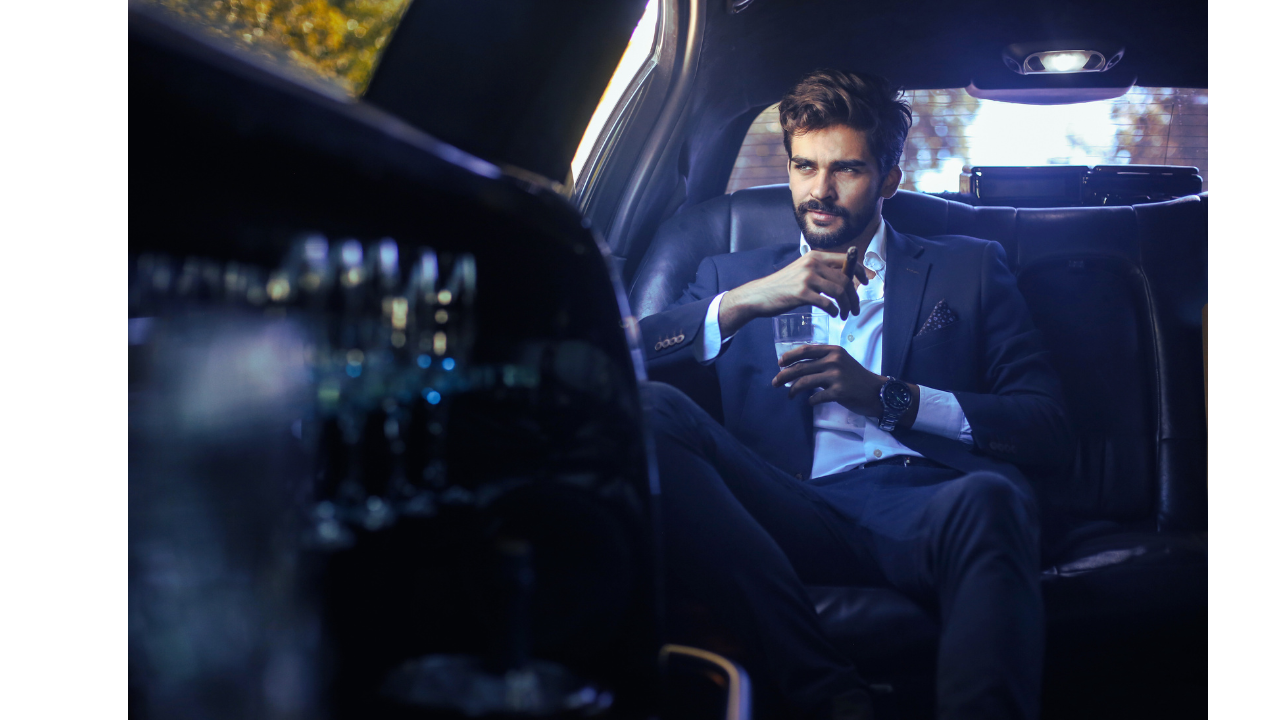
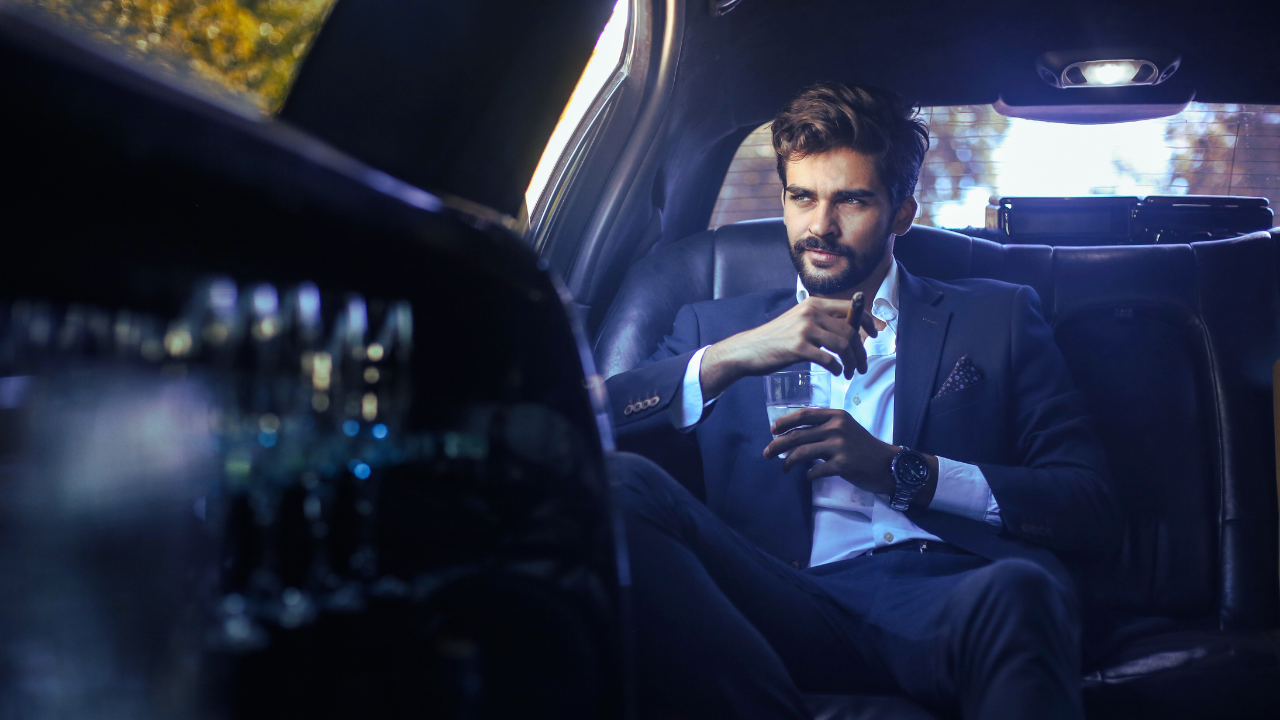
html content and css header and banne sectionsr

diff --git a/index.html b/index.html
@@ -4,7 +4,7 @@
     <meta charset="UTF-8">
     <meta name="viewport" content="width=device-width, initial-scale=1.0">
     <title>FinDataMan</title>
-    <link rel="stylesheet" href="./resources/reset.css">;
+    <link rel="stylesheet" href="./resources/reset.css">
     <link rel="stylesheet" href="./resources/style.css">
     <link rel="preconnect" href="https://fonts.googleapis.com">
 <link rel="preconnect" href="https://fonts.gstatic.com" crossorigin>
@@ -14,44 +14,54 @@
 <body>
     <header>
         <nav>
-            <img src="./resources/images/gray logo.png" alt="FinDataMan logo">
-            <ul class="navigation-items">
-                <li id="li-why-me">
-                    <a ref="#">Why me</a>
-                </li>
-                <li id="li-experience">
-                    <a ref="#">Experience</a>
-                </li>
-                <li id="li-skills">
-                    <a ref="#">Skills</a>
-                </li>
-                <li id="li-education">
-                    <a ref="#">Education</a>
-                </li>
-                <li id ="li-interests">
-                    <a ref="#">Interests</a>
-                </li>
-                <li id ="li-contact">
-                    <a ref="#">Contact</a>
-                </li>
-            </ul>
-        </nav>
-        <h1>This is how I make feel business people</h1>
-        <div id="empowered">
-            <h2>Empowered</h2>
-        </div>
-        <div id="confident">
-            <h2>Confident</h2>
-        </div>
-        <div id="prepared">
-            <h2>Prepared</h2>
-        </div>
-        <div id="control">
-            <h2>In Control</h2>
-        </div>                        
+            <div class="content container">
+                <img id="logo" src="./resources/images/gray logo.png" alt="FinDataMan logo">
+                <ul class="navigation-items">
+                    <li id="li-why-me">
+                        <a href="#">Why me</a>
+                    </li>
+                    <li id="li-experience">
+                        <a href="#">Experience</a>
+                    </li>
+                    <li id="li-skills">
+                        <a href="#">Skills</a>
+                    </li>
+                    <li id="li-education">
+                        <a href="#">Education</a>
+                    </li>
+                    <li id ="li-interests">
+                        <a href="#">Interests</a>
+                    </li>
+                    <li id ="li-contact">
+                        <a href="#">Contact</a>
+                    </li>
+                </ul>
+            </div>
+        </nav>                       
     </header>
 
     <main>
+        <section id="banner">
+            <div id="feel">
+                <h1 class="center">This is how I make business people feel</h1>
+                <div class="container">
+                    <div id="empowered">
+                        <h2>Empowered</h2>
+                    </div>
+                    <div id="confident">
+                        <h2>Confident</h2>
+                    </div>
+                    <div id="prepared">
+                        <h2>Prepared</h2>
+                    </div>
+                    <div id="control">
+                        <h2>In Control</h2>
+                    </div>
+                </div> 
+                <a href="#" class="center more scrolly">Know-how</a>
+            </div>
+        </section> 
+
         <section id="why-me">
             <h1>Arturo Villagomez</h1>
             <h2>Chief Financial Officer | Chief Operating Officer | Partner | Product Manager | Full-Stack Engineer (In progress)</h2>

diff --git a/resources/style.css b/resources/style.css
@@ -9,4 +9,119 @@ html{
     font-size: 16px;
 }
 
+body, html {
+    width: 100%;
+    height: 100%;
+    overflow: hidden;
+}
+
+.center{
+    text-align: center;
+}
+
+a{
+    text-decoration: none;
+}
+
+.container{
+    display: flex;
+}
+
 /* Header */
+header {
+    position: fixed;
+    width: 100%;
+    height: auto;
+    z-index: 1;
+}
+
+nav{
+    width: 100%;
+    height: 7rem;
+}
+
+nav .content{
+    align-items: center;
+}
+
+#logo{
+   height: 7rem;
+   margin-left: 5%; 
+}
+
+.navigation-items {
+    display: inline-flex;
+    align-items: center;
+    text-align: center;
+    position: absolute;
+    right: 5%;
+}
+
+nav a{
+    padding-left: 2rem;
+    font-size: 1.5rem;
+    font-weight: bold;
+    color: #d3d3d3;
+}
+
+/* Header */
+#banner{
+    min-height: 57rem;
+    background-image: url("./images/banner.png");
+    background-position: center;
+    background-size: cover;
+    background-repeat: no-repeat;
+    display: flex;
+    align-items: flex-end;
+    justify-content: center;
+}
+
+
+#feel{
+    margin-bottom: 3rem;
+    width: 40rem;
+    height: auto;
+    color: #d3d3d3;
+}
+
+#feel h1{
+    font-size: 2.5rem;
+    font-weight: bold;
+    padding-bottom: 4rem;
+}
+
+#feel .container{
+    justify-content: space-around;
+}
+
+#feel h2{
+    font-size: 1.5rem;
+    font-weight: bold;
+    padding-bottom: 10rem;
+}
+
+#feel a{
+    letter-spacing: 0.1rem;
+    color: #d3d3d3;
+    width: 100%;
+    height: 4rem;
+}
+
+#feel .more{
+    display: flex;
+    justify-content: center;
+}
+#feel .more:after{
+    background-image: url(./images/arrow.png);
+    background-position: center;
+    background-repeat: no-repeat;
+    background-size: contain;
+    bottom: 4em;
+    content: '';
+    display: block;
+    height: 1.5em;
+    left: 50%;
+    margin: 0 0 0 -0.75em;
+    position: absolute;
+    width: 1.5em;
+}
